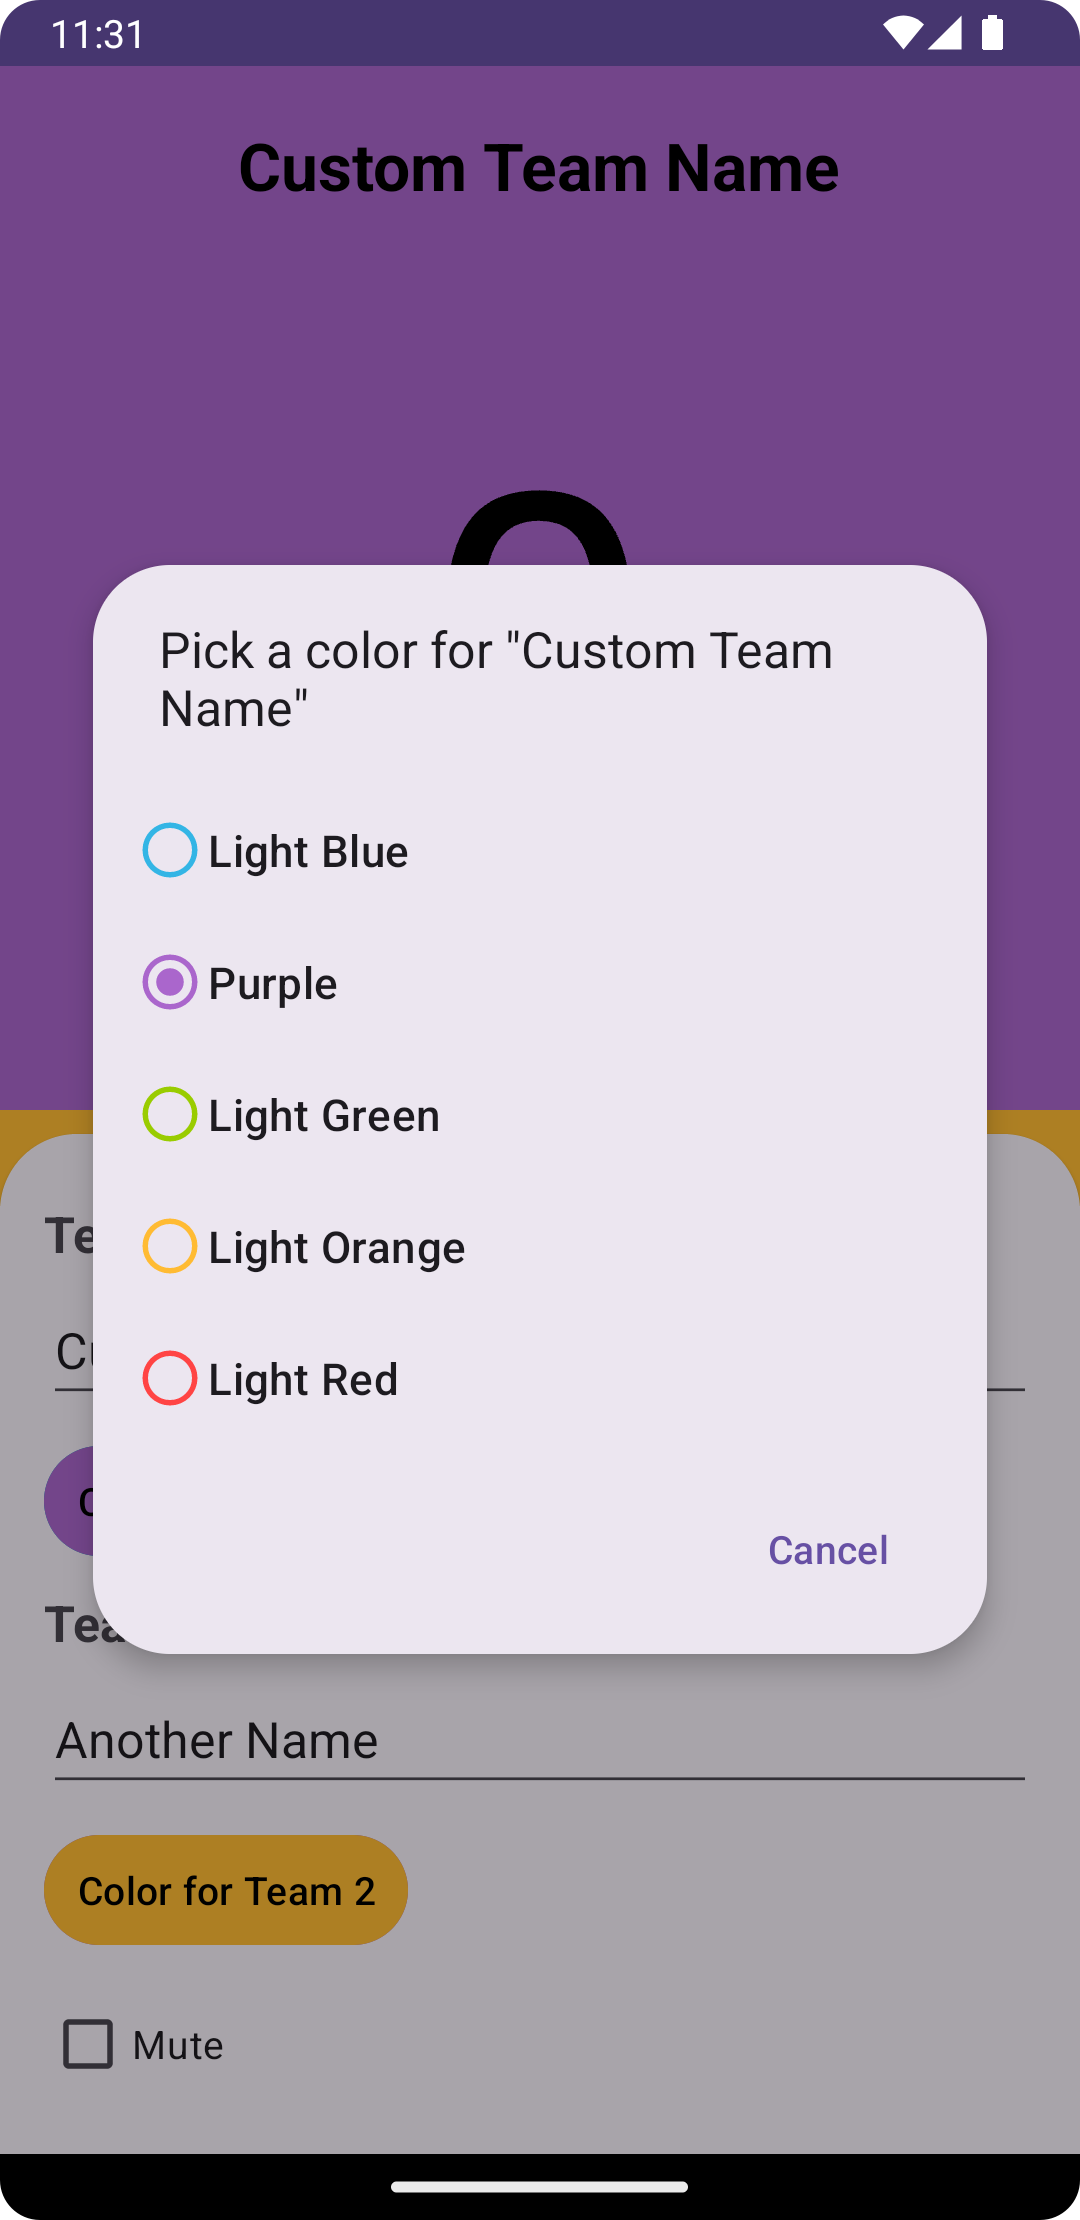
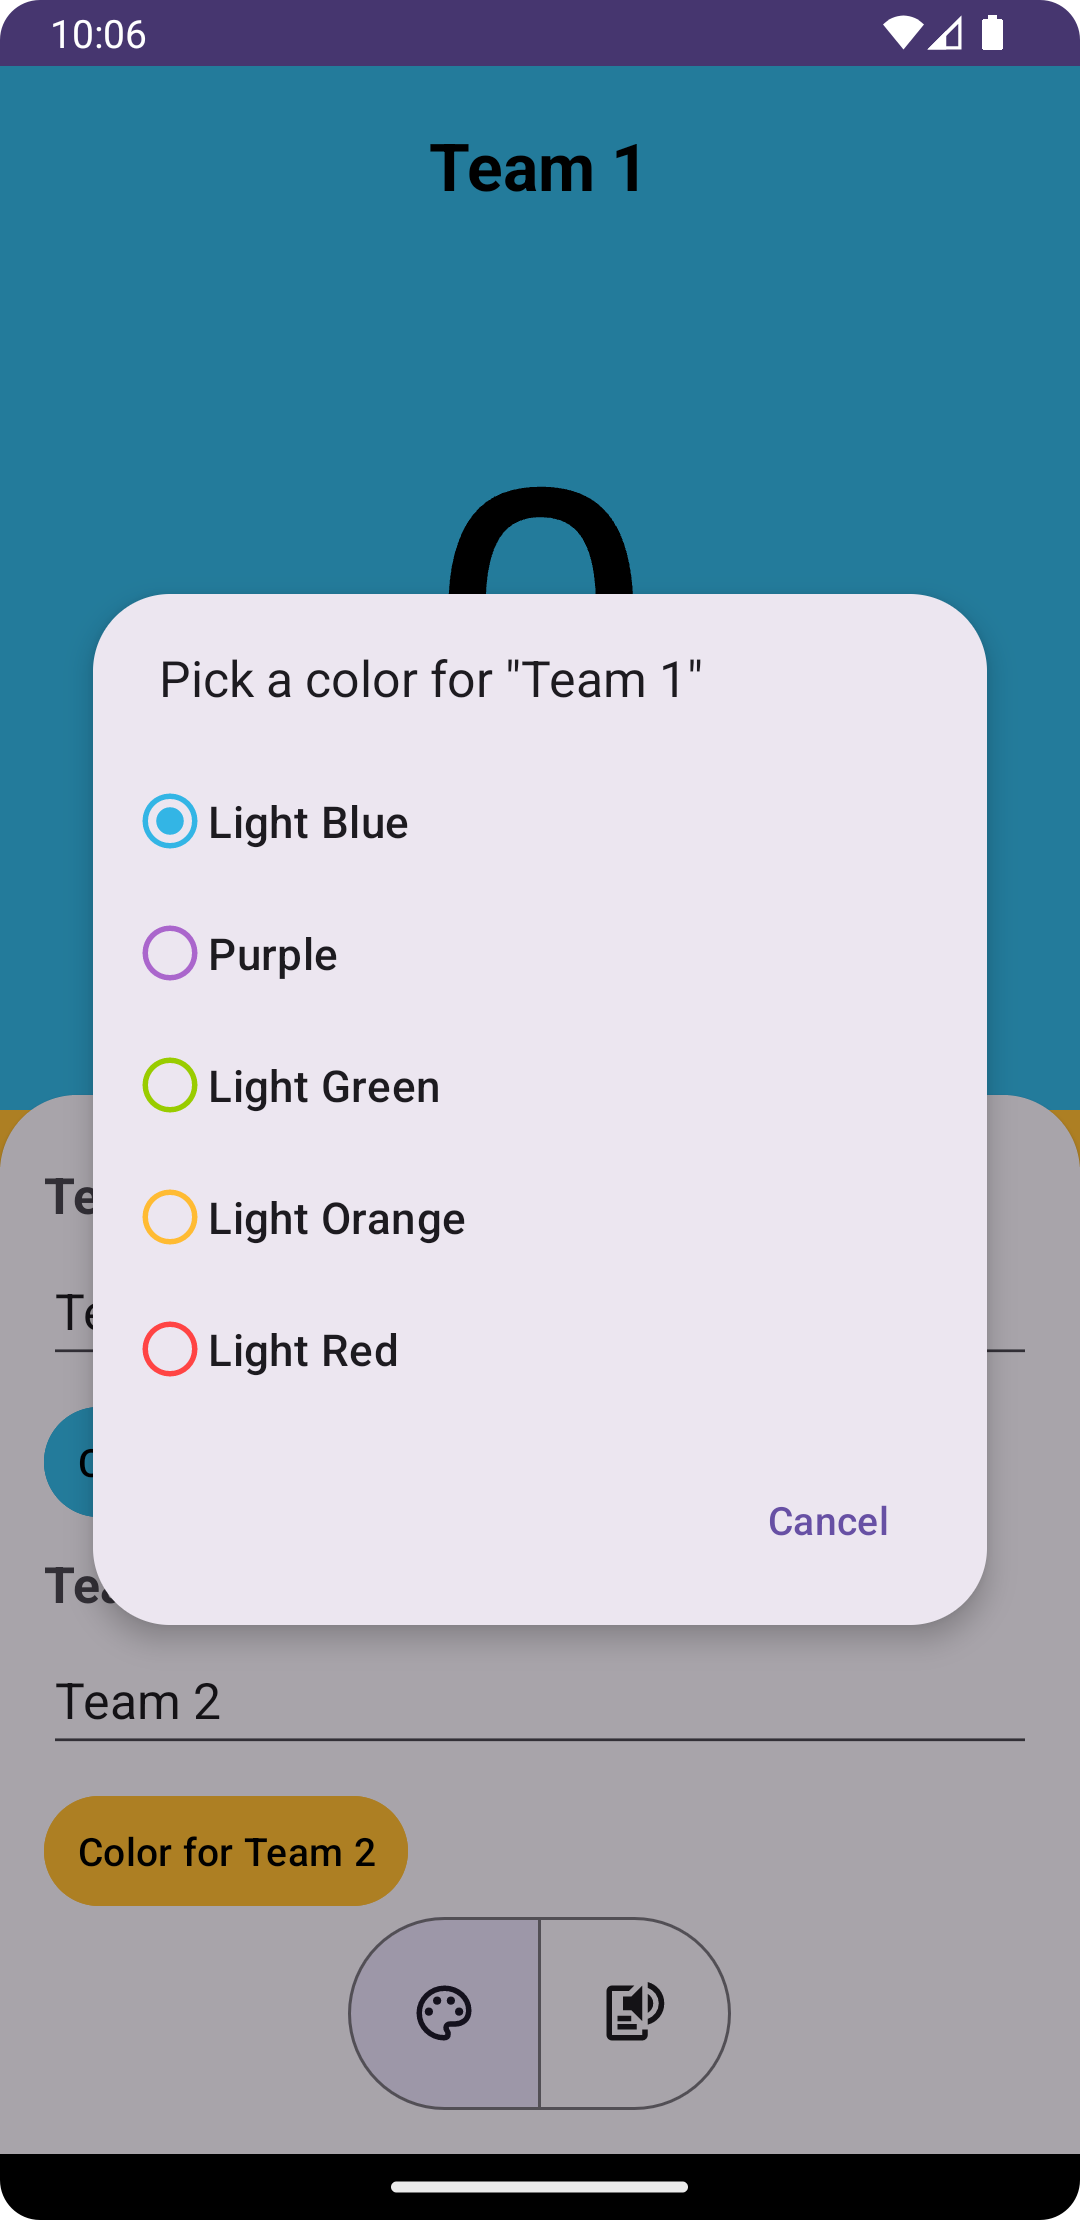
README.md

diff --git a/README.md b/README.md
@@ -14,21 +14,22 @@ want to pass your cellphone to another person to mark down the score, you can lo
 - [x] Reset button
 - [x] Swap button
 - [x] Whistle button
+- [x] High contrast button
 - [x] Points announcement
 - [x] Teams announcement
+- [x] TTS speed rate and pitch sliders
 - [x] Change background colors
 - [x] Settings screen
 - [x] Translations in EN (default), PT and ES
 
 ## TODO
 
-- [ ] Option to disable vibrations
 - [ ] More colors
-- [ ] TTS pitch slider
-- [ ] Timer
+- [ ] TTS locale
+- [ ] Game timer
 - [ ] Picture-in-Picture
 - [ ] Change points increment number
-- [ ] Change app logo
+- [ ] Improve app logo
 - [ ] Add other sounds to replace the whistle
 - [ ] Add points limiter
 - [ ] Change announce order
@@ -41,11 +42,20 @@ want to pass your cellphone to another person to mark down the score, you can lo
 ### Scoreboard Screen Horizontal
 <img src="images/main_horizontal.png" width="300" alt="Scoreboard Screen Horizontal">
 
-### Settings Bottomsheet
-<img src="images/settings.png" height="300" alt="Settings Bottomsheet">
+### High Contrast mode
+
+<img src="images/high_contrast.png" width="300" alt="Scoreboard Screen High Contras">
+
+### Settings Bottomsheet - Palette
+
+<img src="images/settings_palette.png" height="300" alt="Settings Bottomsheet - Palette">
 
 ### Color Picker Dialog
 <img src="images/color_picker.png" height="300" alt="Color Picker Dialog">
+
+### Settings Bottomsheet - Text-to-speech
+
+<img src="images/settings_tts.png" height="300" alt="Settings Bottomsheet - Text-to-speech">
 
 ## Credits
 
